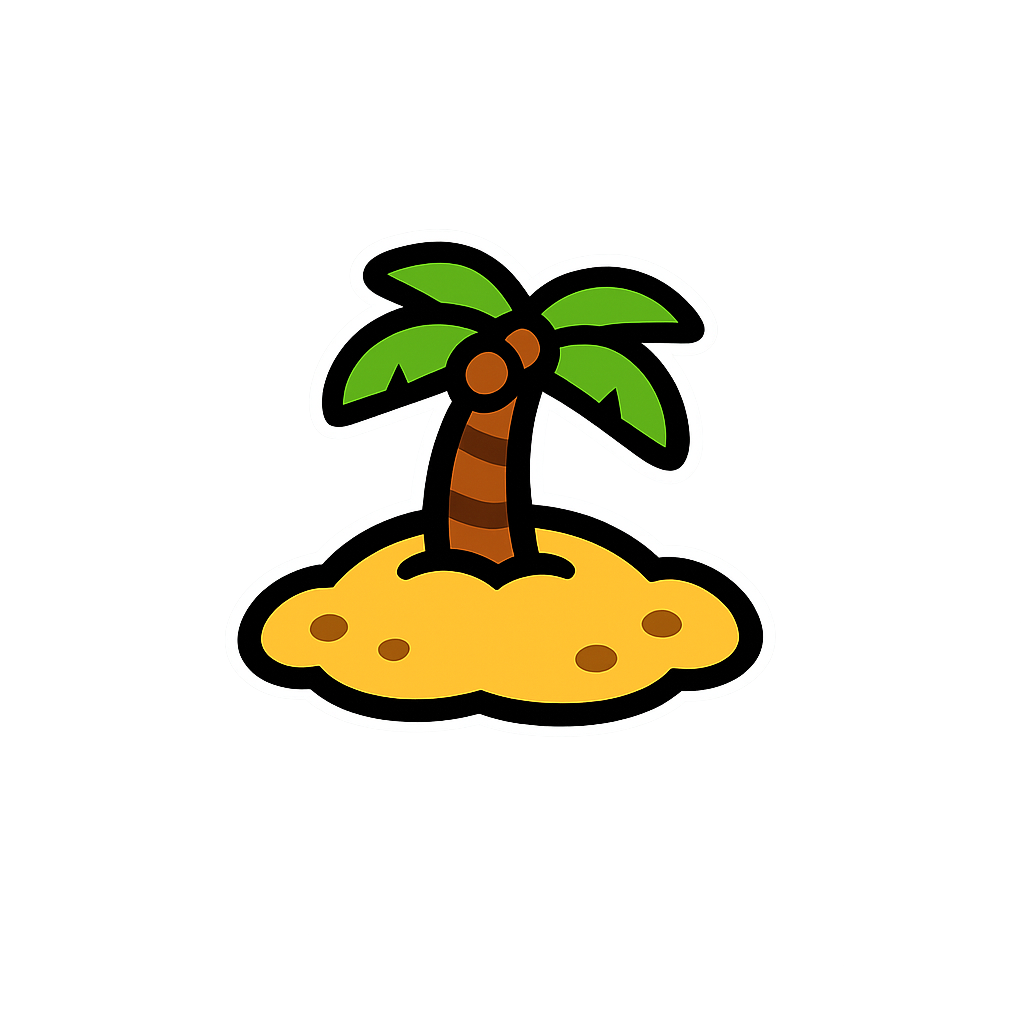
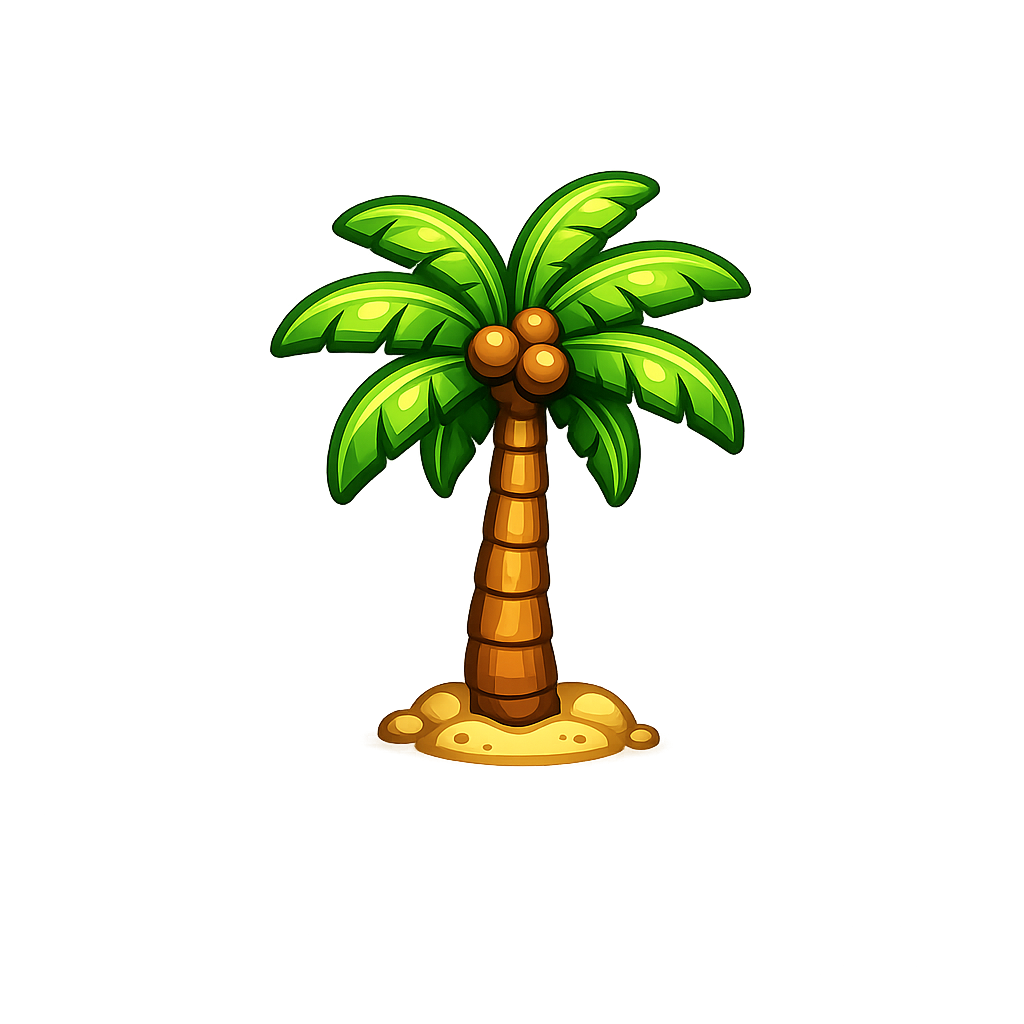
Update

Changed region(s): [[0.2188, 0.1562, 0.75, 0.75]]

diff --git a/A5-Game/Game/illustrator.py b/A5-Game/Game/illustrator.py
@@ -40,40 +40,46 @@ class Illustrator:
             'wall_color': None,
             'wall_edge': None,
             'wall_image': None,
-            'zoom': None
+            'zoom': None,
+            'mine_image': None,
+            'gold_image': None
         },
         'desert': {
-            'wall_color': '#F9E6D2',
-            'wall_edge': '#BD8057',
+            'wall_color': "#F9F2D2",
+            'wall_edge': "#BDA557",
             'wall_image': 'illustrations/cactus.png',
-            'zoom': 0.035,
+            'zoom': '0.024',
             'mine_image': 'illustrations/expl.png',
-            'gold_image': 'illustrations/sand_gold.png'
+            'gold_image': 'illustrations/sand_gold.png',
+            'floor_color': "#F9E6D2"
         },
         'forest': {
             'wall_color': '#c8e6c9',
             'wall_edge': '#388e3c',
             'wall_image': 'illustrations/evergreen_forest.png',
-            'zoom': '0.035',
+            'zoom': '0.024',
             'mine_image': 'illustrations/hole.png',
-            'gold_image': 'illustrations/grass_gold.png'
+            'gold_image': 'illustrations/grass_gold.png',
+            'floor_color': "#d8eed8"
         },
         'garden': {
             'wall_color': '#f0f4c3',
             'wall_edge': '#afb42b',
-            'wall_image': 'illustrations/flowers.png',
-            'zoom': '0.02',
+            'wall_image': 'illustrations/garden_wall.png',
+            'zoom': '0.012',
             'mine_image': 'illustrations/hole.png',
-            'gold_image': 'illustrations/grass_gold.png'
+            'gold_image': 'illustrations/grass_gold.png',
+            'floor_color': "#c0dabd"
+            
         },
         'island': {
-            'wall_color': '#F7E1CA',
-            'wall_edge': "#7f6a36",
+            'wall_color': "#F5DD90",
+            'wall_edge': "#6B3A13",
             'wall_image': 'illustrations/palm.png',
-            'zoom': '0.02',
+            'zoom': '0.024',
             'mine_image': 'illustrations/expl.png',
             'gold_image': 'illustrations/sand_gold.png',
-            'floor_color': '#aee3f5'
+            'floor_color': "#9ed0e1"
         }
     }
 
@@ -124,8 +130,6 @@ class Illustrator:
         fig.subplots_adjust(top=0.85)  
 
         self.init_plot()
-        if self.theme.get('floor_color') is not None:
-            self.ax.set_facecolor(self.theme['floor_color'])
         self.init_walls()
 
         # --- Draw walls only once and not at every frame to make the animation faster ---
@@ -153,7 +157,7 @@ class Illustrator:
         gif = FuncAnimation(fig, self.illustrate_round,
                             self.n_rounds)
         gif.save(self.vizfile, 
-                 dpi=100, fps=self.FRAME_PER_SECOND) # higher dpi 
+                 dpi=80, fps=self.FRAME_PER_SECOND) # higher dpi 
 
     def init_plot(self):
         self.ax.tick_params(
@@ -200,8 +204,19 @@ class Illustrator:
             
         # draw gap indicators at diagonal gaps 
         if gap_x:
-            self.ax.scatter(x=gap_x, y=gap_y, marker='o', c='white', s=self.markersize * 0.15, zorder=3, alpha=0.6)
+            self.ax.scatter(x=gap_x, y=gap_y, marker='+', c='white', s=self.markersize * 0.15, zorder=3, alpha=0.6)
 
+        # draw floor tiles on non-wall cells, slightly transparent
+        if self.theme.get('floor_color') is not None:
+            wall_set = set(self.walls)
+            floor_x, floor_y = [], []
+            for x in range(self.width):
+                for y in range(self.height):
+                    if (x, y) not in wall_set:
+                        floor_x.append(x)
+                        floor_y.append(y)
+            self.ax.scatter(x=floor_x, y=floor_y, marker='s', c=self.theme['floor_color'],
+                            s=self.markersize, alpha=0.5, zorder=0)
 
     # different colors for each robot
     COLORS = ['#00ffff', '#ff6b6b', '#6bff6b', '#ffaa00', '#aa6bff', '#ff69b4', '#ff4500']
@@ -222,16 +237,44 @@ class Illustrator:
     MARKERS = ['o', 'D', '^', 's', 'P', 'h', '*']
 
     def init_robots(self):
+        # health ring stays in both modes, goes green to red with health
         self.robot_outlines = []
-        self.robot_markers = []
         for i in range(self.n_robots):
-            # colored outer ring in the color of the robot 
-            outline = self.ax.scatter(x=[], y=[], marker=self.MARKERS[i], c=self.COLORS[i], zorder=2)
+            outline = self.ax.scatter(x=[], y=[], marker='o', vmin=0, vmax=100,
+                        c=[], cmap='RdYlGn', zorder=2)
             self.robot_outlines.append(outline)
-            marker = self.ax.scatter(x=[], y=[], marker=self.MARKERS[i],
-                        edgecolors='black', linewidths=1, vmin=0, vmax=100,
-                        c=[], cmap='Reds_r', zorder=3)
-            self.robot_markers.append(marker)
+
+        if self.theme['wall_image'] is not None:   # themed: robot is a tinted image
+            # load the grey robot once, then tint one copy per player
+            robot_img = plt.imread('illustrations/robot.png')
+            self.robot_boxes = []
+            for i in range(self.n_robots):
+                tinted = self.tint_image(robot_img, self.COLORS[i])
+                imagebox = OffsetImage(tinted, zoom=0.03)
+                box = AnnotationBbox(imagebox, (0, 0), frameon=False, zorder=3)
+                box.set_visible(False)   # hidden until the robot needs it
+                self.ax.add_artist(box)
+                self.robot_boxes.append(box)
+        else:   # default: plain shape markers, like before
+            self.robot_boxes = None
+            self.robot_markers = []
+            for i in range(self.n_robots):
+                marker = self.ax.scatter(x=[], y=[], marker=self.MARKERS[i],
+                            edgecolors='black', linewidths=1, vmin=0, vmax=100,
+                            c=[], cmap='Reds_r', zorder=3)
+                self.robot_markers.append(marker)
+
+    def tint_image(self, img, color):
+        # multiply a grayscale image with a color so we get a colored robot
+        # img is RGBA (0-1 floats), color is a matplotlib color
+        from matplotlib.colors import to_rgb
+        r, g, b = to_rgb(color)
+        tinted = img.copy()
+        tinted[:, :, 0] = img[:, :, 0] * r   # red channel
+        tinted[:, :, 1] = img[:, :, 1] * g   # green channel
+        tinted[:, :, 2] = img[:, :, 2] * b   # blue channel
+        # alpha channel (img[:, :, 3]) stays untouched so transparency is kept
+        return tinted
 
     def init_goldpots(self):
         # glow circle behind the pot, this is what pulses (easier and more readable than pulsing image)
@@ -243,7 +286,7 @@ class Illustrator:
             pot_img = plt.imread(self.theme['gold_image'])
             self.gold_boxes = []
             for _ in range(max_pots):
-                imagebox = OffsetImage(pot_img, zoom=0.02)
+                imagebox = OffsetImage(pot_img, zoom=0.018)
                 box = AnnotationBbox(imagebox, (0, 0), frameon=False, zorder=3)
                 box.set_visible(False)   # hidden until a pot needs it
                 self.ax.add_artist(box)
@@ -303,14 +346,26 @@ class Illustrator:
             self.goldpots.set_sizes(sizes if sizes else [])
 
         # robots
-        for j, (outline, marker) in enumerate(zip(self.robot_outlines, self.robot_markers)):
-            pos = [self.robotspos[i][j]]
-            size = self.robotsmoney[i][j]
-            outline.set_offsets(pos)
-            outline.set_sizes([size * 1.6]) # larger, so that the colored ring peeks out at the edges
-            marker.set_offsets(pos)
-            marker.set_sizes([size])
-            marker.set_array(np.array([self.robotshealth[i][j]]))
+        if self.robot_boxes is not None:   # themed: move robot images, ring shows health
+            for j, (outline, box) in enumerate(zip(self.robot_outlines, self.robot_boxes)):
+                pos = [self.robotspos[i][j]]
+                size = self.robotsmoney[i][j]
+                outline.set_offsets(pos)
+                outline.set_sizes([size * 1.6]) # larger, so the health ring peeks out behind the robot
+                outline.set_array(np.array([self.robotshealth[i][j]]))
+                box.xybox = self.robotspos[i][j]
+                box.xy = self.robotspos[i][j]
+                box.set_visible(True)
+        else:   # default: plain shape markers
+            for j, (outline, marker) in enumerate(zip(self.robot_outlines, self.robot_markers)):
+                pos = [self.robotspos[i][j]]
+                size = self.robotsmoney[i][j]
+                outline.set_offsets(pos)
+                outline.set_sizes([size * 1.6]) # larger, so that the colored ring peeks out at the edges
+                outline.set_array(np.array([self.robotshealth[i][j]]))
+                marker.set_offsets(pos)
+                marker.set_sizes([size])
+                marker.set_array(np.array([self.robotshealth[i][j]]))
             
         # mines
         if self.mine_boxes is not None:   # themed: move mine images, hide the rest

diff --git a/A5-Game/Game/runRobotRace.py b/A5-Game/Game/runRobotRace.py
@@ -17,7 +17,7 @@ parser.add_argument('--framerate', help="specify framerate of the visualization"
 parser.add_argument('--map', help="specify map file", type=str,default=None)
 parser.add_argument('--mine_mode', help="specify what mines do. Options are wall, scramble and damage", type=str, default="wall")
 parser.add_argument('--allow_jumps', help="allow players to jump over walls by running into the same direction twice", action=argparse.BooleanOptionalAction)
-parser.add_argument('--theme', type=str, default='default',choices=['default', 'desert', 'forest', 'garden'])
+parser.add_argument('--theme', type=str, default='default',choices=['default', 'desert', 'forest', 'garden', 'island'])
 
 
 args = parser.parse_args()
